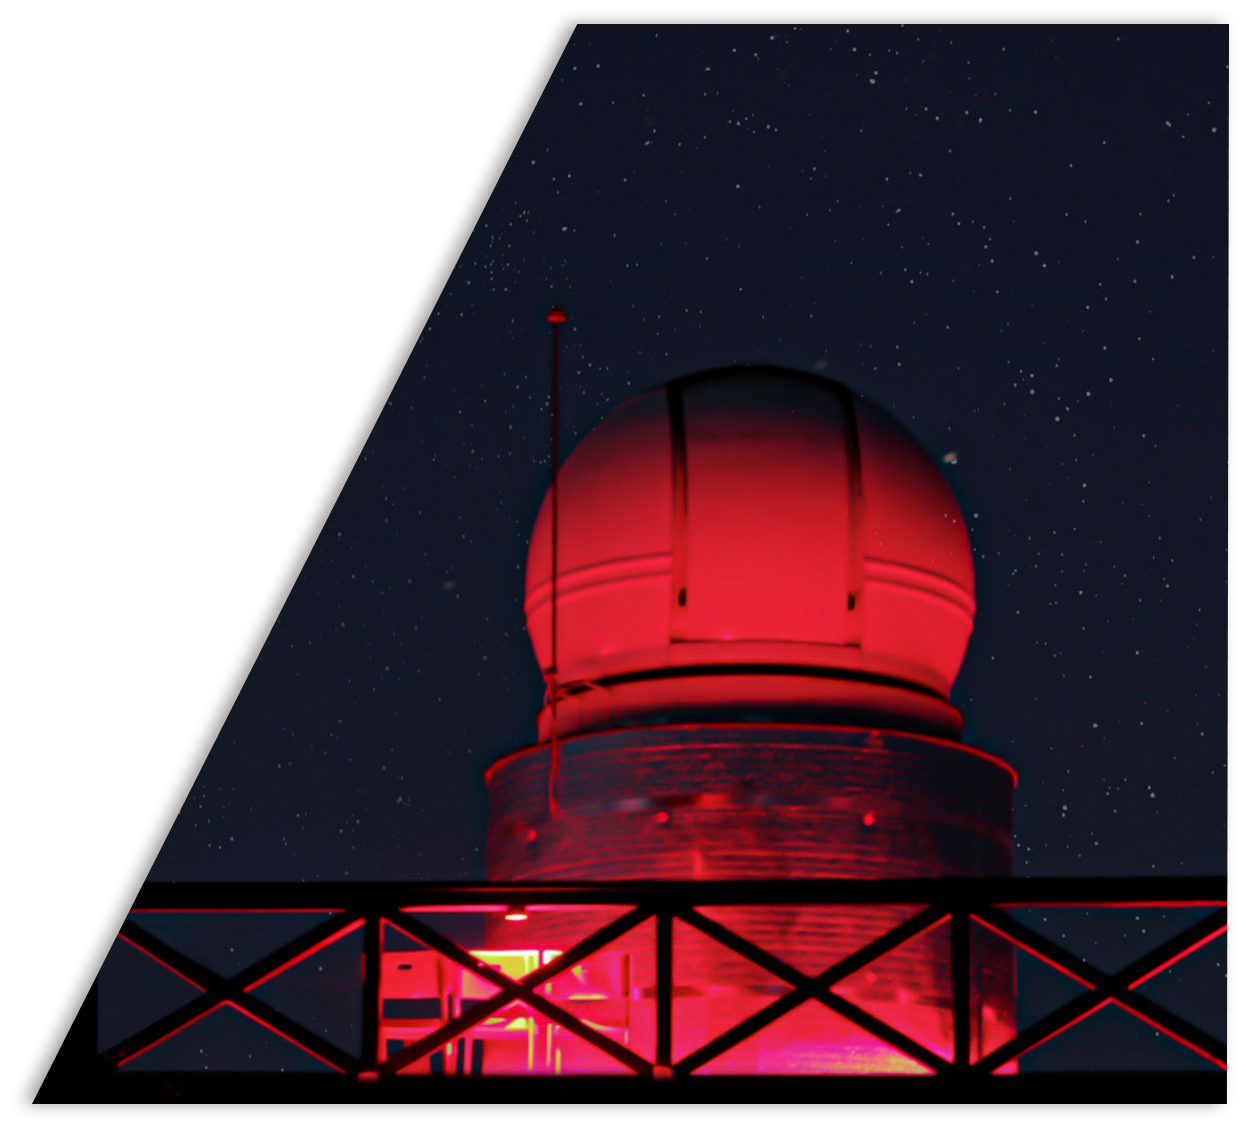
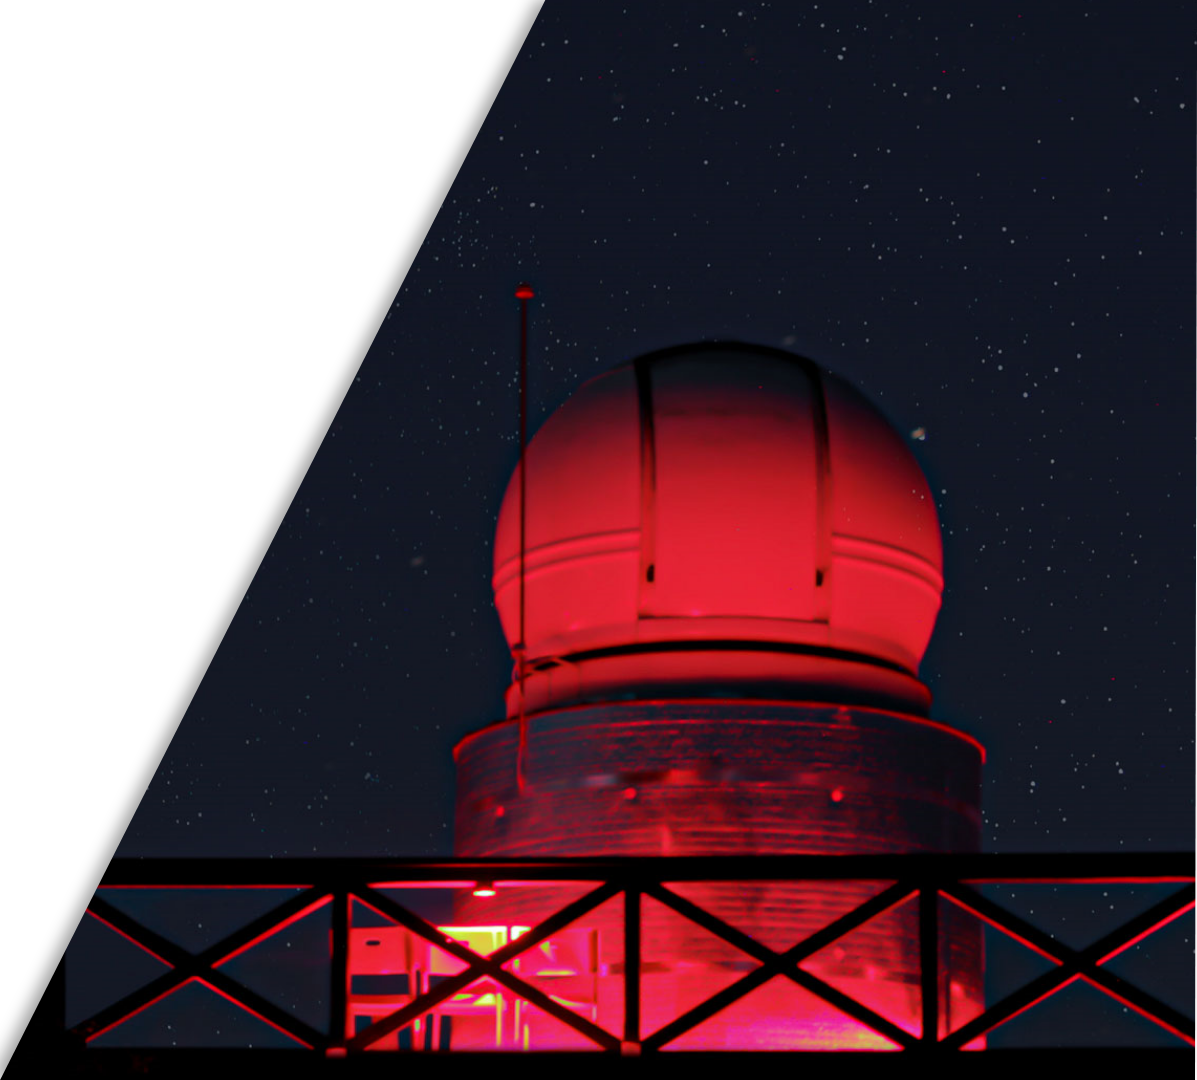
Front page

diff --git a/src/components/home-text.vue b/src/components/home-text.vue
@@ -1,20 +1,21 @@
 <template>
-<v-container fluid pa-5>
-    <v-layout justify-end pt-5 class="home-text" grid-list-xl v-for="text in texts" :key="text.id">
-        <v-flex lg7>
+<v-container fluid pa-0>
+    <v-layout class="home-text" grid-list-xl v-for="text in texts" :key="text.id" align-center>
+    <v-flex class="image" xs6 v-bind:class="text.class">
+            <v-img v-bind:src="text.pic">
+        </v-img>
+    </v-flex>
+    <v-flex xs6 class="px-20">
             <h3 class="display-2">{{text.title}}</h3>
             <div class="line"></div>
-            <p class="body-1 ">{{text.content}}</p>
-        </v-flex > 
+            <p class="body-1">{{text.content}}</p>
+    </v-flex > 
 
-        <v-flex v-bind:is="text.comp">
-        </v-flex>
     </v-layout>
 </v-container>
 </template>
 
 <script>
-import pictures from './pictures'
 
 export default {
 
@@ -24,30 +25,44 @@ export default {
                     id: 1,
                     title: 'EXPLORE WITH US',
                     content: 'Lorem ipsum dolor sit amet, consectetur voluptatibus rerum error soluta at accusantium? Lorem ipsum dolor sit amet, consectetur adipisicing elit. Incidunt mollitia, eos architecto alias consequuntur voluptatibus rerum error soluta at accusantium?',
-                    comp: pictures
+                    pic: require('@/assets/img1.jpg'),
                 },
                 {
                     id: 2,
-
+                    title: 'EXPLORE WITH US',
+                    content: 'Lorem ipsum dolor sit amet, consectetur voluptatibus rerum error soluta at accusantium? Lorem ipsum dolor sit amet, consectetur adipisicing elit. Incidunt mollitia, eos architecto alias consequuntur voluptatibus rerum error soluta at accusantium?',
+                    pic: require('@/assets/home-backgr.jpg'),
+                    class: 'order-xs2',
                 },
-                {
+               /*  {
                     id: 3,
-                    title: 'MORE STUFF',
-                    content: 'Lorem ipsum dolor sit amet, consectetur adipisicing elit. Incidunt mollitia, eos architecto alias consequuntur voluptatibus rerum error soluta at accusantium?',
-                },
+                    title: 'EXPLORE WITH US',
+                    content: 'Lorem ipsum dolor sit amet, consectetur voluptatibus rerum error soluta at accusantium? Lorem ipsum dolor sit amet, consectetur adipisicing elit. Incidunt mollitia, eos architecto alias consequuntur voluptatibus rerum error soluta at accusantium?',
+                    pic: require('@/assets/img1.jpg'),
+                }, */
             ]
         }
     }
 }
+
+
 </script>
 
 <style>
 .home-text {
-    color: #111111;
-    
+    color: #ffffff !important;
+    height: 100vh;
+    background-color: #050408
 }
-
+.home-text:nth-of-type(2) {
+  background-color: #050505;
+}
+.px-20 {
+    padding: 0 10%;
+}
 .body-1 {
     padding-top: 1.5vw;
 }
+
+.line {margin-top: 20px;}
 </style>

diff --git a/src/views/Home.vue b/src/views/Home.vue
@@ -24,7 +24,7 @@
 
     </div>
 
-    <v-layout dar align-center mt-5 id="first-section">
+    <v-layout dar align-center pt-0 id="first-section">
         <!-- <mainText></mainText> -->
         <homeText></homeText>
     </v-layout>
@@ -47,32 +47,23 @@ export default {
 </script>
 
 <style>
-* {
-    color: #000 !important;
-}
 
 .bckgr {
     background-color: #dbdbdb;
 } 
 .home {
-    background-image: url('../assets/home-backgr7.png') ; 
+    background-image: url('../assets/observatory.jpg') ; 
 }
 
 #first-section {
-    background-color: #f4f4f4;
-    background-image: url('../assets/section1.png');
-   
+    background-color: #dbdbdb;
 }
 
 .home {
     height: 100vh;
-
-    transform: scale(1.05);
-    background-size: contain;
+    background-size: cover;
     background-position: bottom right;
-
     overflow: hidden;
-
 }
 
 .vidCont {
@@ -113,7 +104,7 @@ export default {
 .banner-txt h1 {
     font-size: 5vw;
     line-height: 1.3;
-    padding-bottom: 2vw;
+    padding-bottom: 1vw;
 }
 
 .banner-txt h3 {

diff --git a/src/components/footer.vue b/src/components/footer.vue
@@ -1,7 +1,7 @@
 <template>
 <v-footer  height="auto" class="footer">
     <v-container fluid grid-list-xl>
-        <v-layout align-start justify-space-around row wrap>
+        <v-layout align-start justify-space-around row wrap pt-3>
             <v-flex sm3 md3 lg2>
                 <img class="none" src="../assets/logo.png">
             </v-flex>
@@ -21,7 +21,7 @@
                     <p>Saturday-sunday: 11:00-22:00</p>
                 </v-flex>
                 
-                <v-flex pt-5 xs12>
+                <v-flex pt-0 xs12>
 <v-divider dark></v-divider>
                     <p class="copyright">&copy;2019 — Copyright</p>
                 </v-flex>
@@ -40,14 +40,12 @@ export default {
 
 <style>
 .footer {
-
     background-color: #161616 !important;
     color: #bebebe!important;
-
 }
 
 img {
-    max-width: 60%;
+    max-width: 50%;
 }
 
 .copyright {

diff --git a/src/components/pictures.vue b/src/components/pictures.vue
@@ -1,6 +1,6 @@
 <template>
    <v-container fluid >
-       <v-layout r\\ v-for="image in images" :key="image.id">
+       <v-layout  v-for="image in images" :key="image.id">
           <v-card >
                <v-img :src="image.img"> </v-img>
           </v-card >
